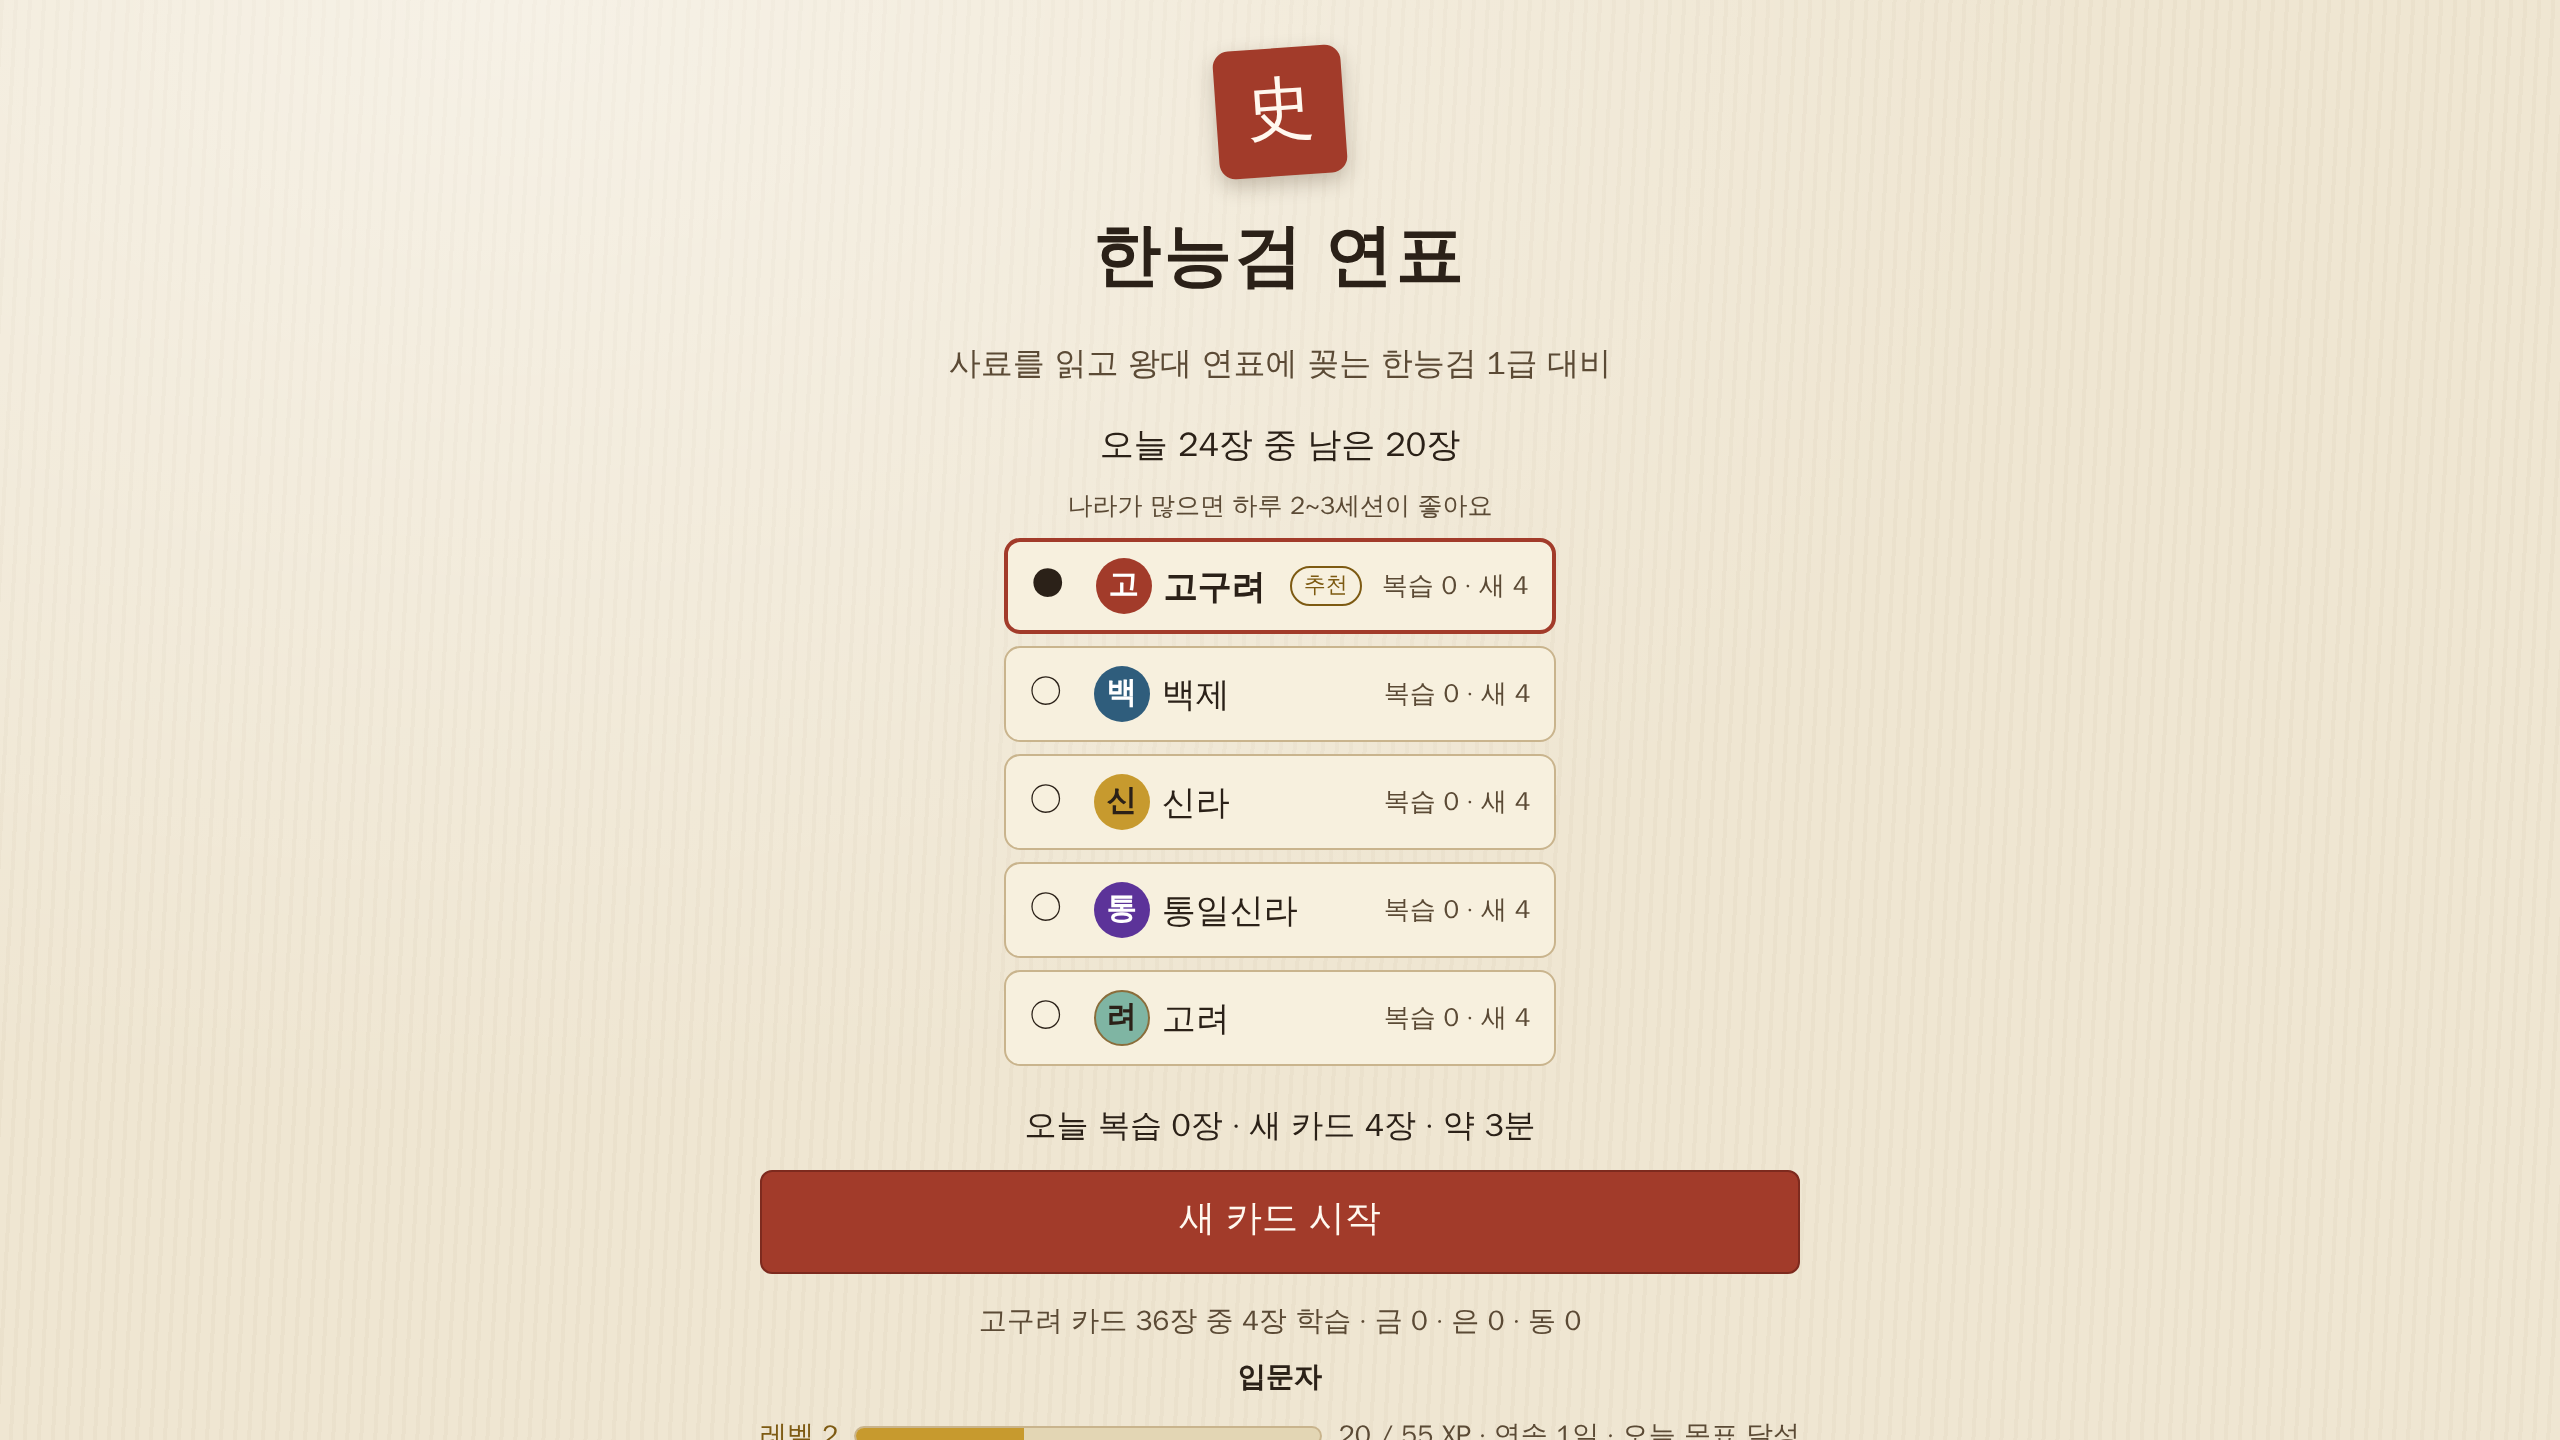
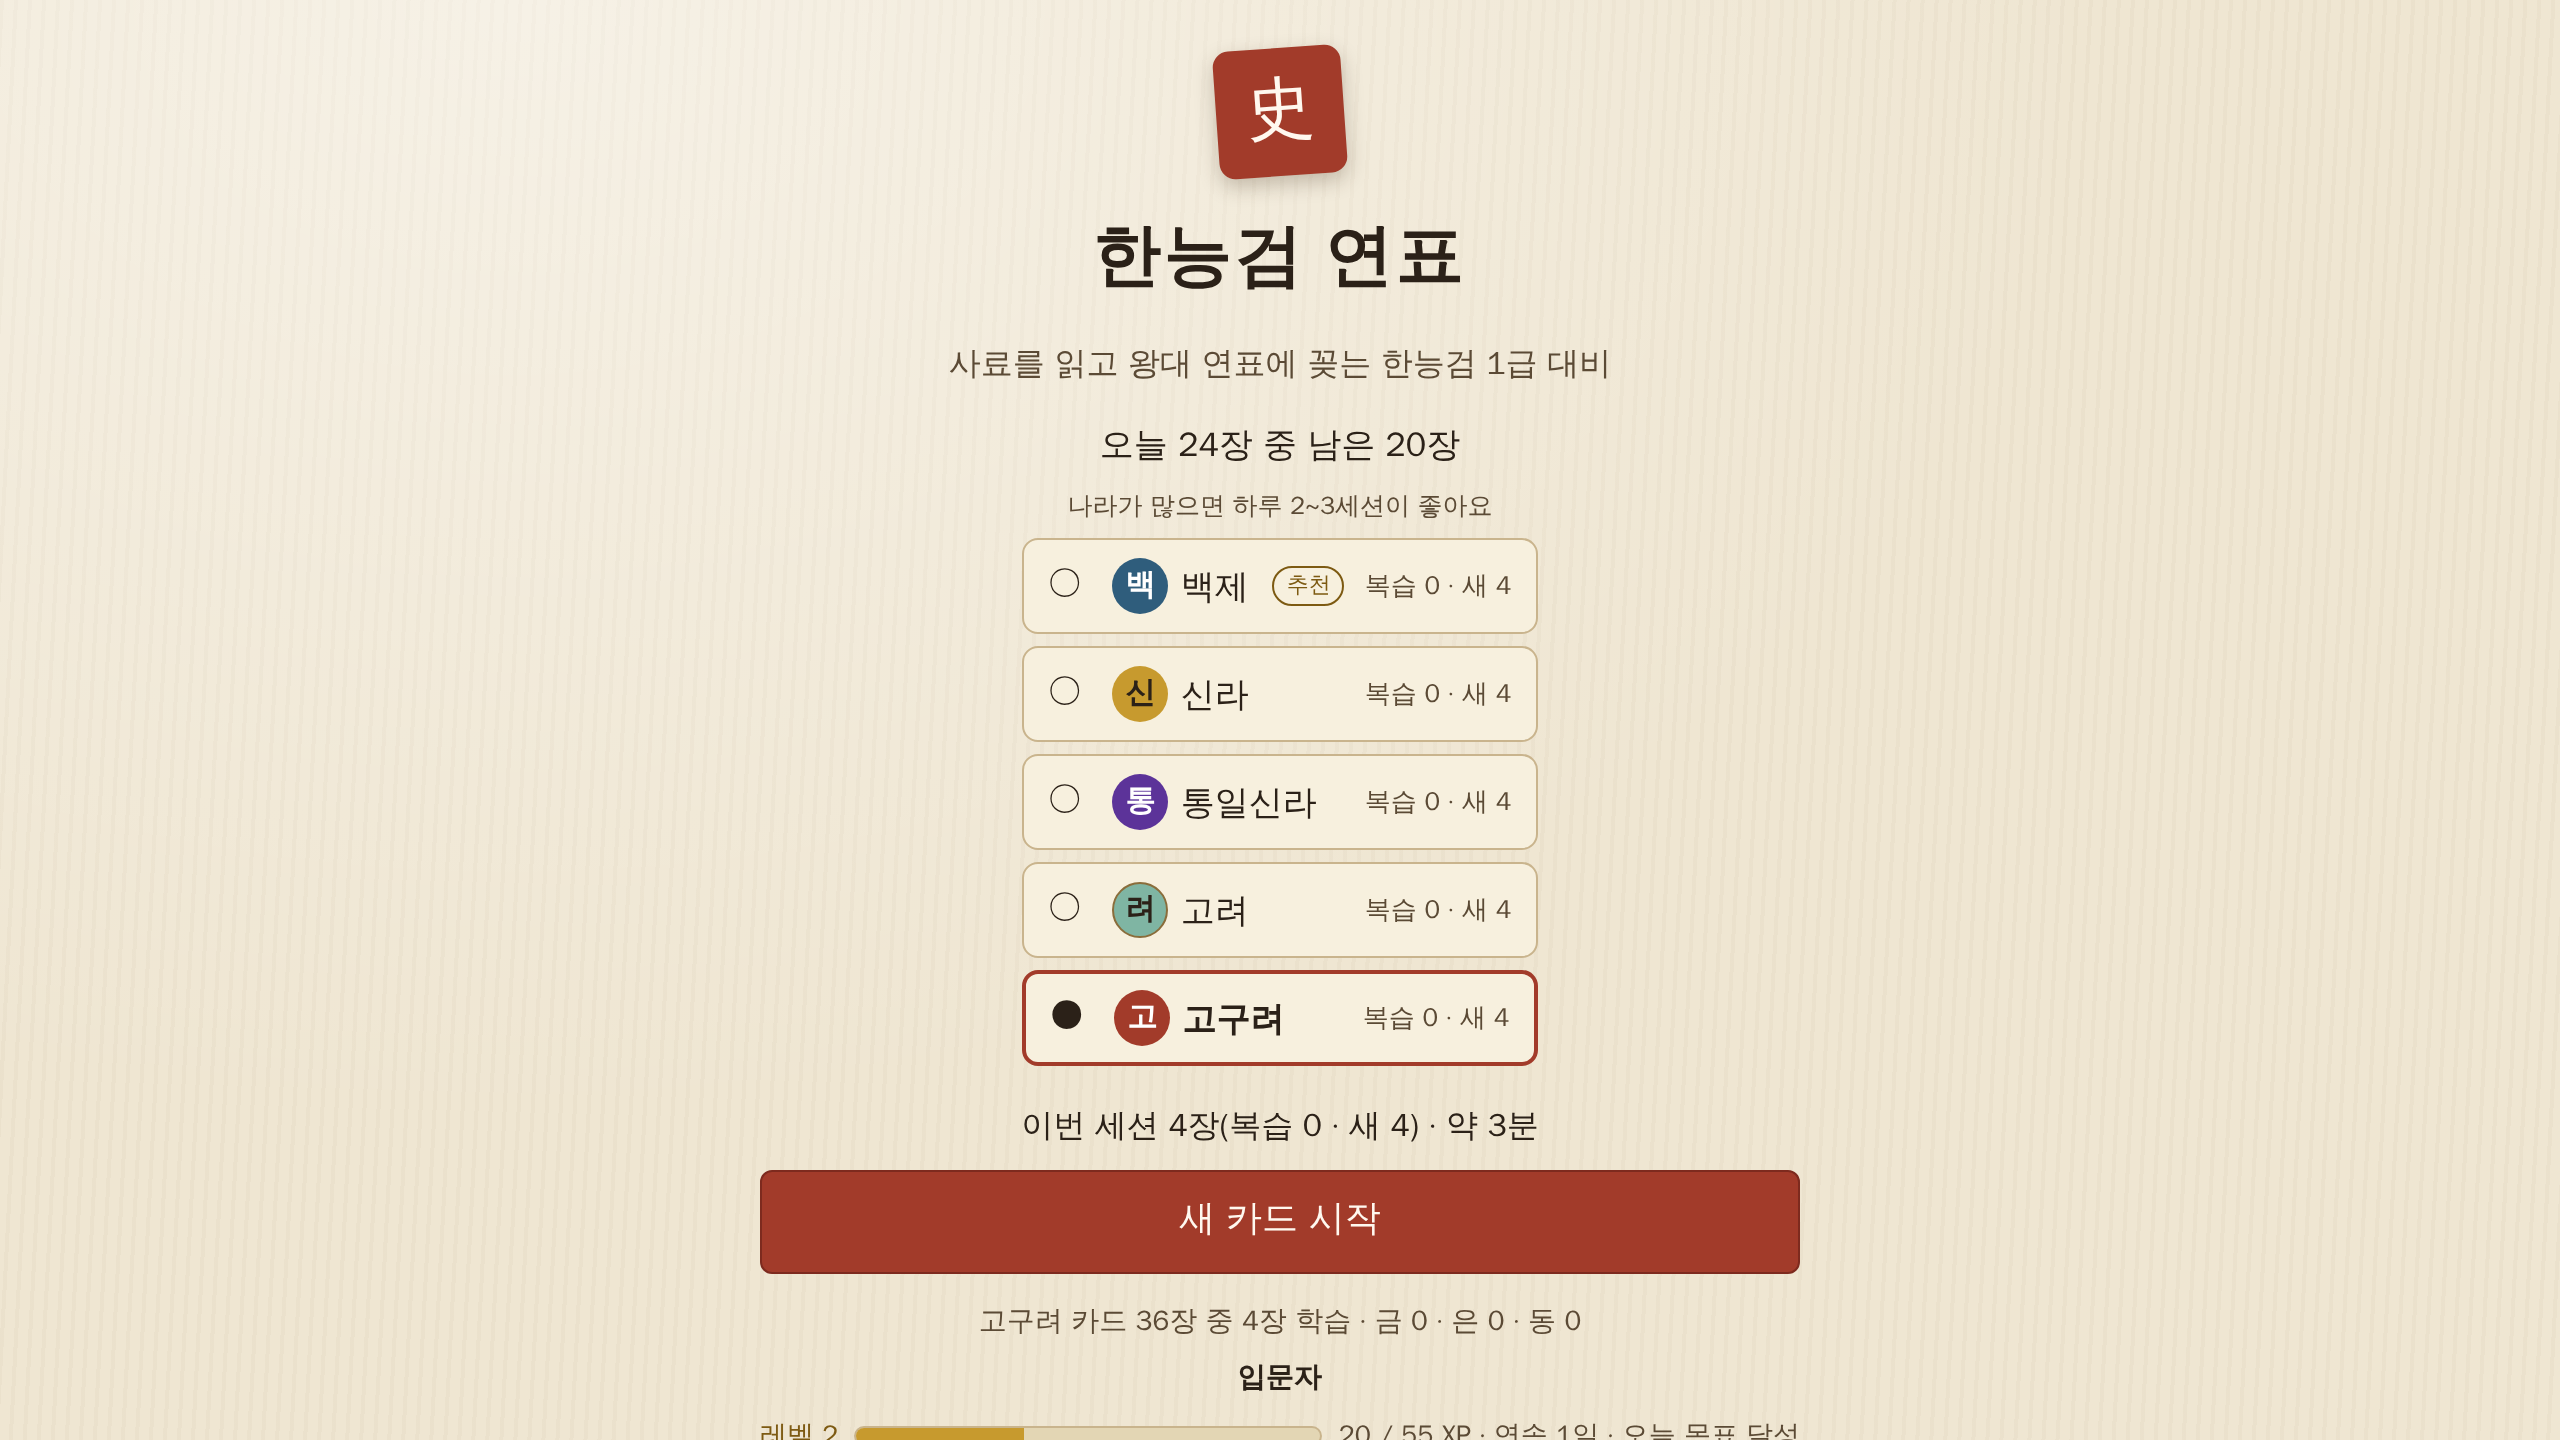
feat: M2 human-test deck list, recency tie-break, session line wording (D119)
- assets/data/cards/v2/manifest-m2test.json (goguryeo, goryeo) and run URL
- README section for the human test with Windows py steps
- Equal due+new: least recently played nation is recommended first
- Title line "이번 세션 n장(복습 a · 새 b) · 약 k분"
- e2e for the test deck list and the tie-break

Task: D194

Claude-Session: https://claude.ai/code/session_01KFwKcXZaAYXL5Re7NZj86K

diff --git a/prototypes/m1-timeline/js/main.js b/prototypes/m1-timeline/js/main.js
@@ -1362,7 +1362,9 @@ function renderTitleNations() {
   if (active.length >= 3) {
     // D193(D237): 추천 정렬은 도래 + 새 카드(도래만 세면 새 나라가 열리지 않는다). 같으면 manifest 순서.
     const weight = (id) => plans.get(id).due + plans.get(id).fresh;
-    const order = [...active].sort((a, b) => weight(b.id) - weight(a.id) || nations.indexOf(a) - nations.indexOf(b));
+    // D194: 같으면 최근에 덜 한 나라(마지막 인출이 오래됐거나 없는 나라) 먼저, 그다음 manifest 순서.
+    const lastAt = (id) => deckOf(id).cards.reduce((m, c) => Math.max(m, Date.parse(allP[c.id]?.last_played_at ?? '') || -Infinity), -Infinity);
+    const order = [...active].sort((a, b) => weight(b.id) - weight(a.id) || lastAt(a.id) - lastAt(b.id) || nations.indexOf(a) - nations.indexOf(b));
     const rec = weight(order[0].id) > 0 ? order[0].id : null;
     app.titleNations = { recommended: rec, nations: active.map((n) => ({ nation: n.id, due_n: plans.get(n.id).due, new_n: plans.get(n.id).fresh })) };
     const cap = R.daily_card_soft_cap;
@@ -1431,8 +1433,8 @@ function showTitle() {
   const mins = Math.max(1, Math.ceil((plan.left * CONFIG.secondsPerCard) / 60));
   const today = {
     continue: `이어서 ${plan.left}장 남음 · 약 ${mins}분`,
-    review: `오늘 복습 ${plan.due}장 · 새 카드 ${plan.fresh}장 · 약 ${mins}분`,
-    new: `오늘 복습 0장 · 새 카드 ${plan.fresh}장 · 약 ${mins}분`,
+    review: `이번 세션 ${plan.due + plan.fresh}장(복습 ${plan.due} · 새 ${plan.fresh}) · 약 ${mins}분`,
+    new: `이번 세션 ${plan.fresh}장(복습 0 · 새 ${plan.fresh}) · 약 ${mins}분`,
     done: '오늘 할 카드를 모두 했습니다. 미리 복습은 연습입니다.',
   }[plan.mode];
   const label = { continue: `이어하기 · ${plan.left}장 남음`, review: '복습 시작', new: '새 카드 시작', done: '오늘 끝 · 미리 복습' }[plan.mode];

diff --git a/prototypes/m1-timeline/README.md b/prototypes/m1-timeline/README.md
@@ -32,6 +32,22 @@
 - **처음부터 다시**: [숙련 도감] → 오답 노트 탭 아래 [학습 기록 초기화](학습 기록과 레벨·업적을 지운다). 모든 나라 기록을 한 번에 확실히 비우려면 브라우저 개발자 도구 → Application → Local Storage → `localhost:8000`을 지운다. 기록을 남기려면 먼저 [기록 내보내기(JSONL)].
 - 휴대폰으로 보려면 PC와 같은 Wi-Fi에서 `http://PC의IP:8000/prototypes/m1-timeline/`(Windows 방화벽이 물으면 "개인 네트워크" 허용). 공개 인터넷에 올리지 않는다(프로토타입 배포 금지).
 
+### 사람 테스트용 실행(M2, 고구려·고려만)
+M2 사람 테스트는 나라를 두 개(고구려·고려)로 줄인 덱 목록 `assets/data/cards/v2/manifest-m2test.json`을 쓴다(D194). 카드 파일은 실제 `manifest.json`과 같다.
+
+1. 위 "PC에서 바로 해 보기" 1~3단계대로 **저장소 맨 위 폴더**에서 서버를 띄운다(Windows `py -m http.server 8000`, macOS·Linux `python3 -m http.server 8000`).
+2. 브라우저에서 아래 주소를 연다(한 줄).
+
+   ```
+   http://localhost:8000/prototypes/m1-timeline/?manifest=../../assets/data/cards/v2/manifest-m2test.json
+   ```
+
+3. 타이틀에 고구려·고려 두 나라만 보이면 맞다. 나라를 바꿔도 주소의 `manifest=`가 유지된다.
+4. 참가자마다 **새 브라우저 프로필**(또는 시크릿 창, 단 닫으면 기록이 사라진다)을 쓴다. 기록은 브라우저 저장소에 남고 다른 덱 목록과 공유된다. 테스트가 끝나면 [숙련 도감] → [기록 내보내기(JSONL)]로 로그를 받는다.
+5. 휴대폰 참가자: PC와 같은 Wi-Fi에서 `http://PC의IP:8000/prototypes/m1-timeline/?manifest=../../assets/data/cards/v2/manifest-m2test.json`.
+
+이 주소는 일반 학습 모드다. M1 방식 비교용 `?study=1`(아래)과는 다른 테스트다. 묶음(`build.py`)은 기본 `manifest.json`만 싣는다.
+
 ### 주소 옵션
 - `?nation=baekje`처럼 나라를 바로 고른다(goguryeo, baekje, silla, usilla, goryeo).
 - `?study=1`은 M1 사람 테스트 모드다(아래). 일반 학습과 저장이 따로다.

diff --git a/docs/decision-log.md b/docs/decision-log.md
@@ -1287,6 +1287,12 @@
 - **구현**: 웹이 테스트용 manifest(`assets/data/cards/v2/manifest-m2test.json`, 고구려·고려)와 실행 주소(`?manifest=...`)를 만들고, `docs/m2b-checklist.md`·`production/playtest/m2-plan.md`에 반영(설계).
 - **작은 수정(웹)**: 추천 정렬 동점이면 최근에 덜 한 나라 우선(고려가 늘 뒤에 밀리는 문제), 타이틀 "남은 n장"과 다음 세션 장수 문구 연결("이번 세션 n장").
 
+## 2026-11-05 D119. D194 웹 반영: 사람 테스트용 덱 목록, 추천 동점 처리, 세션 줄 문구 (웹 빌드 세션, 웹 구간 마지막 번호)
+- **사람 테스트용 덱 목록**: `assets/data/cards/v2/manifest-m2test.json`(고구려·고려만, 실제 `manifest.json`과 같은 파일). 실행 주소 `http://localhost:8000/prototypes/m1-timeline/?manifest=../../assets/data/cards/v2/manifest-m2test.json`(저장소 맨 위에서 서버). 나라를 바꿔도 `manifest=` 유지. README에 "사람 테스트용 실행" 절(Windows `py`, 참가자마다 새 브라우저 프로필, 로그 내보내기, 같은 Wi-Fi 휴대폰, `?study=1`과 다름, 묶음은 기본 목록만). e2e 1개(두 나라만, 고려로 바꿔 한 장).
+- **추천 동점**: 도래 + 새 카드가 같으면 최근에 덜 한 나라(그 나라 카드의 마지막 `last_played_at`이 오래됐거나 없음) 먼저, 그다음 manifest 순. 고려가 manifest 맨 뒤라 처음 며칠 추천되지 않던 문제. e2e(고구려 카드를 방금 봤으면 백제 추천, 고구려는 맨 뒤).
+- **세션 줄**: 타이틀 "오늘 24장 중 남은 n장" 아래 줄을 "이번 세션 n장(복습 a · 새 b) · 약 k분"으로(이어하기·끝은 그대로).
+- 단위 99, e2e 67 통과. 스크린샷 71장. 이후 웹 결정 번호는 D260~.
+
 ## 남은 문제
 - 카드 44장 전부 `verified: false`. 사람의 사실 확인 전에는 출시 빌드에 넣을 카드가 없다(`validate_cards.py --release` 실패가 정상).
 - 같은 사료(삼국사기 전승)에 기댄 건국기 카드가 많다. 플레이에서 건국기 칸이 단서 3단계 의존으로 쏠리는지 볼 것.
